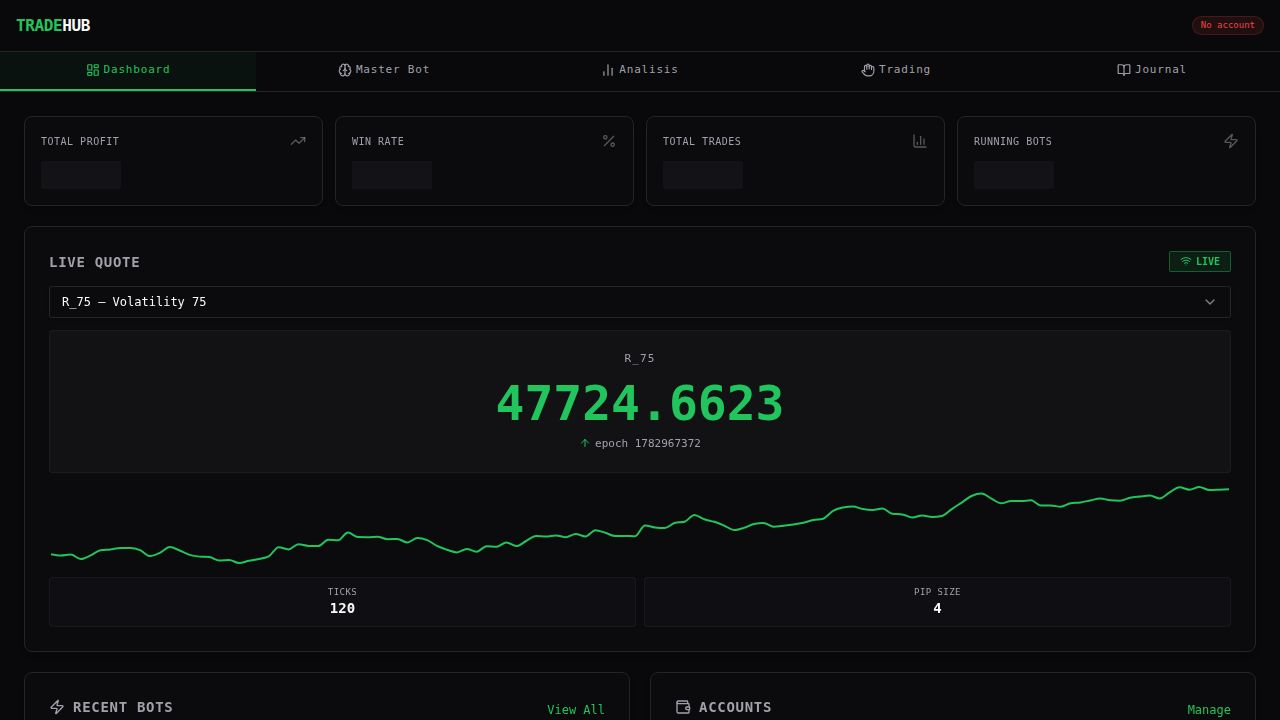
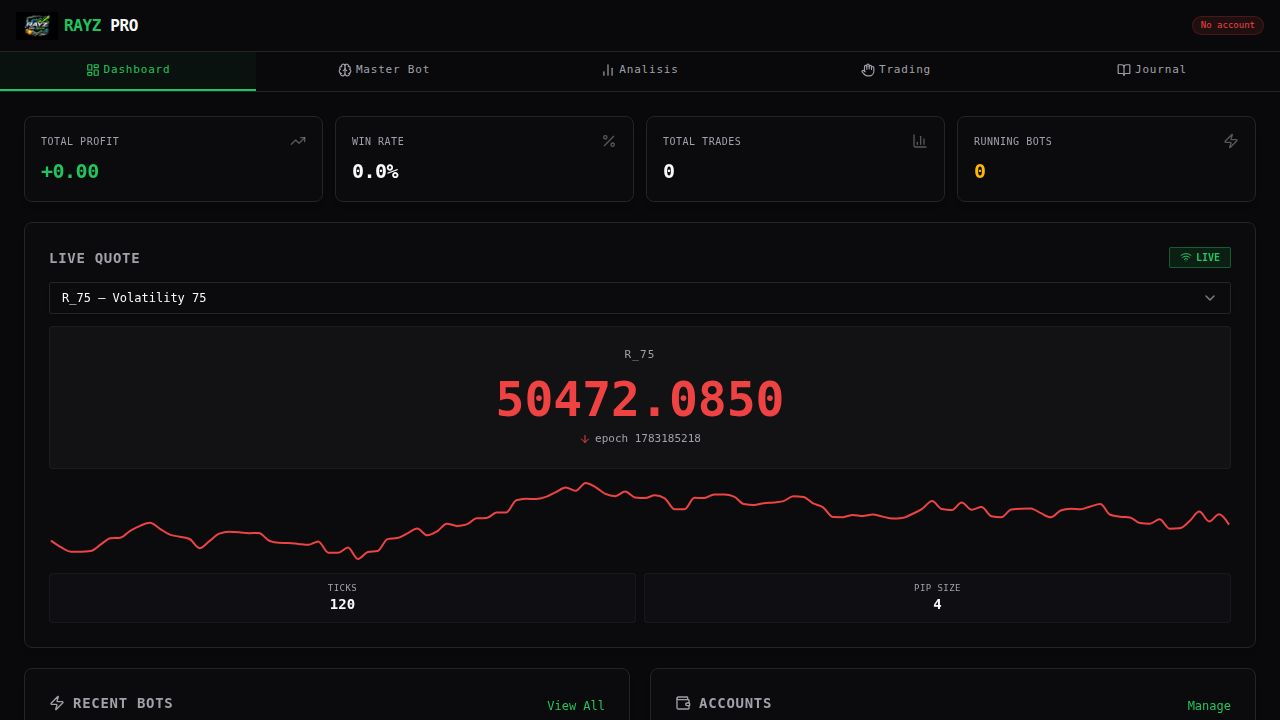
Update app branding from TradeHub to RAYZ PRO across multiple files
Update artifact.toml, replit.md, index.html, vite.config.ts, AppShell.tsx, TabbedApp.tsx, and SW.js to reflect the new "RAYZ PRO" branding, including title, logos, and cache names.

Replit-Commit-Author: Agent
Replit-Commit-Session-Id: f442d987-fa69-4d17-ba3a-7433418cd012
Replit-Commit-Checkpoint-Type: full_checkpoint
Replit-Commit-Event-Id: 68471b03-4d6d-4aea-929b-fced42095298
Replit-Commit-Screenshot-Url: https://storage.googleapis.com/screenshot-production-us-central1/006cc13d-024c-4e51-951d-4e8059fd2f55/f442d987-fa69-4d17-ba3a-7433418cd012/ciLTWYp
Replit-Helium-Checkpoint-Created: true

diff --git a/artifacts/tradehub/vite.config.ts b/artifacts/tradehub/vite.config.ts
@@ -35,11 +35,11 @@ export default defineConfig({
     runtimeErrorOverlay(),
     VitePWA({
       registerType: "autoUpdate",
-      includeAssets: ["favicon.svg", "pwa-icon.svg", "pwa-icon-maskable.svg"],
+      includeAssets: ["logo.png"],
       manifest: {
-        id: "tradehub-deriv-companion",
-        name: "TradeHub — Deriv Companion",
-        short_name: "TradeHub",
+        id: "rayz-pro-deriv-companion",
+        name: "RAYZ PRO — Deriv Companion",
+        short_name: "RAYZ PRO",
         description:
           "Connect a Deriv account, manage DBot strategies, run trading calculators, and journal trades from a single dark-mode terminal.",
         start_url: basePath,
@@ -50,8 +50,7 @@ export default defineConfig({
         theme_color: "#0a0f0d",
         categories: ["finance", "productivity", "utilities"],
         icons: [
-          { src: "pwa-icon.svg", sizes: "any", type: "image/svg+xml", purpose: "any" },
-          { src: "pwa-icon-maskable.svg", sizes: "any", type: "image/svg+xml", purpose: "maskable" },
+          { src: "logo.png", sizes: "1536x1024", type: "image/png", purpose: "any" },
         ],
       },
       workbox: {
@@ -63,7 +62,7 @@ export default defineConfig({
             urlPattern: ({ url }) => url.origin === self.location.origin && url.pathname.startsWith("/api/"),
             handler: "NetworkFirst",
             options: {
-              cacheName: "tradehub-api",
+              cacheName: "rayzpro-api",
               networkTimeoutSeconds: 5,
               expiration: { maxEntries: 64, maxAgeSeconds: 60 * 5 },
             },
@@ -72,7 +71,7 @@ export default defineConfig({
             urlPattern: ({ url }) => url.origin === "https://fonts.googleapis.com" || url.origin === "https://fonts.gstatic.com",
             handler: "CacheFirst",
             options: {
-              cacheName: "tradehub-fonts",
+              cacheName: "rayzpro-fonts",
               expiration: { maxEntries: 32, maxAgeSeconds: 60 * 60 * 24 * 30 },
             },
           },

diff --git a/artifacts/tradehub/src/components/layout/AppShell.tsx b/artifacts/tradehub/src/components/layout/AppShell.tsx
@@ -2,6 +2,7 @@ import { Link } from "wouter";
 import { ArrowLeft, Wallet } from "lucide-react";
 import { useListAccounts } from "@workspace/api-client-react";
 import { InstallPWAButton } from "@/components/install-pwa-button";
+import logo from "@assets/logo_1783185010505.png";
 
 function SubHeader() {
   const { data: accounts } = useListAccounts();
@@ -17,9 +18,12 @@ function SubHeader() {
           </button>
         </Link>
         <span className="text-border">|</span>
-        <h1 className="text-sm font-mono font-bold text-primary tracking-tight">
-          TRADE<span className="text-foreground">HUB</span>
-        </h1>
+        <div className="flex items-center gap-1.5">
+          <img src={logo} alt="RAYZ PRO" className="h-6 w-auto" />
+          <h1 className="text-sm font-mono font-bold text-primary tracking-tight">
+            RAYZ<span className="text-foreground"> PRO</span>
+          </h1>
+        </div>
       </div>
       <div className="flex items-center gap-2">
         <InstallPWAButton />

diff --git a/artifacts/tradehub/src/components/layout/TabbedApp.tsx b/artifacts/tradehub/src/components/layout/TabbedApp.tsx
@@ -10,6 +10,7 @@ import { ReverseOverUnderInline } from "@/components/reverse-over-under-panel";
 import { AnalisisToolSection } from "@/components/analisis-tool-section";
 import { ManualTradingSection } from "@/components/manual-trading-section";
 import { Badge } from "@/components/ui/badge";
+import logo from "@assets/logo_1783185010505.png";
 
 const TABS = [
   { id: "dashboard", label: "Dashboard", icon: LayoutDashboard },
@@ -150,9 +151,12 @@ export function TabbedApp() {
   return (
     <div className="flex flex-col h-screen bg-background overflow-hidden selection:bg-primary/30">
       <header className="h-13 border-b border-border bg-background flex items-center justify-between px-4 shrink-0 z-10">
-        <h1 className="text-base font-mono font-bold text-primary tracking-tight">
-          TRADE<span className="text-foreground">HUB</span>
-        </h1>
+        <div className="flex items-center gap-1.5">
+          <img src={logo} alt="RAYZ PRO" className="h-7 w-auto" />
+          <h1 className="text-base font-mono font-bold text-primary tracking-tight">
+            RAYZ<span className="text-foreground"> PRO</span>
+          </h1>
+        </div>
         <div className="flex items-center gap-2">
           <InstallPWAButton />
           <AccountPill account={activeAccount} />

diff --git a/artifacts/tradehub/dev-dist/sw.js b/artifacts/tradehub/dev-dist/sw.js
@@ -82,7 +82,7 @@ define(['./workbox-7521d49b'], (function (workbox) { 'use strict';
     "revision": "3ca0b8505b4bec776b69afdba2768812"
   }, {
     "url": "/index.html",
-    "revision": "0.fc9gf20hbko"
+    "revision": "0.7h9v1d4aih"
   }], {});
   workbox.cleanupOutdatedCaches();
   workbox.registerRoute(new workbox.NavigationRoute(workbox.createHandlerBoundToURL("/index.html"), {
@@ -92,7 +92,7 @@ define(['./workbox-7521d49b'], (function (workbox) { 'use strict';
   workbox.registerRoute(({
     url
   }) => url.origin === self.location.origin && url.pathname.startsWith("/api/"), new workbox.NetworkFirst({
-    "cacheName": "tradehub-api",
+    "cacheName": "rayzpro-api",
     "networkTimeoutSeconds": 5,
     plugins: [new workbox.ExpirationPlugin({
       maxEntries: 64,
@@ -102,7 +102,7 @@ define(['./workbox-7521d49b'], (function (workbox) { 'use strict';
   workbox.registerRoute(({
     url
   }) => url.origin === "https://fonts.googleapis.com" || url.origin === "https://fonts.gstatic.com", new workbox.CacheFirst({
-    "cacheName": "tradehub-fonts",
+    "cacheName": "rayzpro-fonts",
     plugins: [new workbox.ExpirationPlugin({
       maxEntries: 32,
       maxAgeSeconds: 2592000

diff --git a/artifacts/tradehub/index.html b/artifacts/tradehub/index.html
@@ -3,8 +3,8 @@
   <head>
     <meta charset="UTF-8" />
     <meta name="viewport" content="width=device-width, initial-scale=1.0, maximum-scale=1" />
-    <title>TradeHub - Deriv Companion</title>
-    <link rel="icon" type="image/svg+xml" href="/favicon.svg" />
+    <title>RAYZ PRO - Deriv Companion</title>
+    <link rel="icon" type="image/png" href="/logo.png" />
     <link rel="preconnect" href="https://fonts.googleapis.com">
     <link rel="preconnect" href="https://fonts.gstatic.com" crossorigin>
     <link href="https://fonts.googleapis.com/css2?family=Inter:wght@400;500;600;700&display=swap" rel="stylesheet">

diff --git a/.agents/memory/rebrand-touchpoints.md b/.agents/memory/rebrand-touchpoints.md
@@ -1,0 +1,14 @@
+---
+  name: rebrand-touchpoints
+  description: Where TradeHub->RAYZ PRO branding lives; use as a checklist for future rebrands of this app.
+  ---
+
+  Branding touchpoints for the tradehub artifact's app name/logo, so a future rename doesn't miss spots:
+  - Header text/logo: TabbedApp.tsx (main header) AND AppShell.tsx (sub-page header) — two separate header components, both need updating.
+  - index.html: <title> and favicon <link>.
+  - vite.config.ts: VitePWA manifest (id, name, short_name, icons) and workbox runtimeCaching cacheName strings.
+  - artifact.toml title — must go through verifyAndReplaceArtifactToml, never edit directly.
+  - replit.md project overview line.
+
+  **Why:** these are scattered across ~6 files with no single source of truth for the app name; missing one leaves stale branding visible in the browser tab, PWA install prompt, or a secondary page header.
+  

diff --git a/.agents/memory/MEMORY.md b/.agents/memory/MEMORY.md
@@ -1,2 +1,4 @@
 - [Swipeable tab layout](tabbed-layout.md) — main app is 5-panel horizontal swipe in TabbedApp.tsx, not route-based; sub-pages use SimpleShell in AppShell.tsx
 - [Master Trader bot](master-trader.md) — single DB bot, analysis engine in use-master-trader.ts; hooks must be fixed-count (no loop hooks) for 7 symbols
+
+- [Rebrand touchpoints](rebrand-touchpoints.md) — app name/logo appears in ~6 files (2 headers, index.html, vite.config manifest, artifact.toml, replit.md)

diff --git a/replit.md b/replit.md
@@ -2,7 +2,7 @@
 
 ## Overview
 
-TradeHub — a Deriv trading companion. Connect a Deriv account via API token, import & manage Deriv DBot XML files, run trading calculators (martingale / risk / compound), and journal trades. Real Deriv WebSocket auth on connect; Postgres for persistent storage.
+RAYZ PRO — a Deriv trading companion. Connect a Deriv account via API token, import & manage Deriv DBot XML files, run trading calculators (martingale / risk / compound), and journal trades. Real Deriv WebSocket auth on connect; Postgres for persistent storage.
 
 ## Stack
 